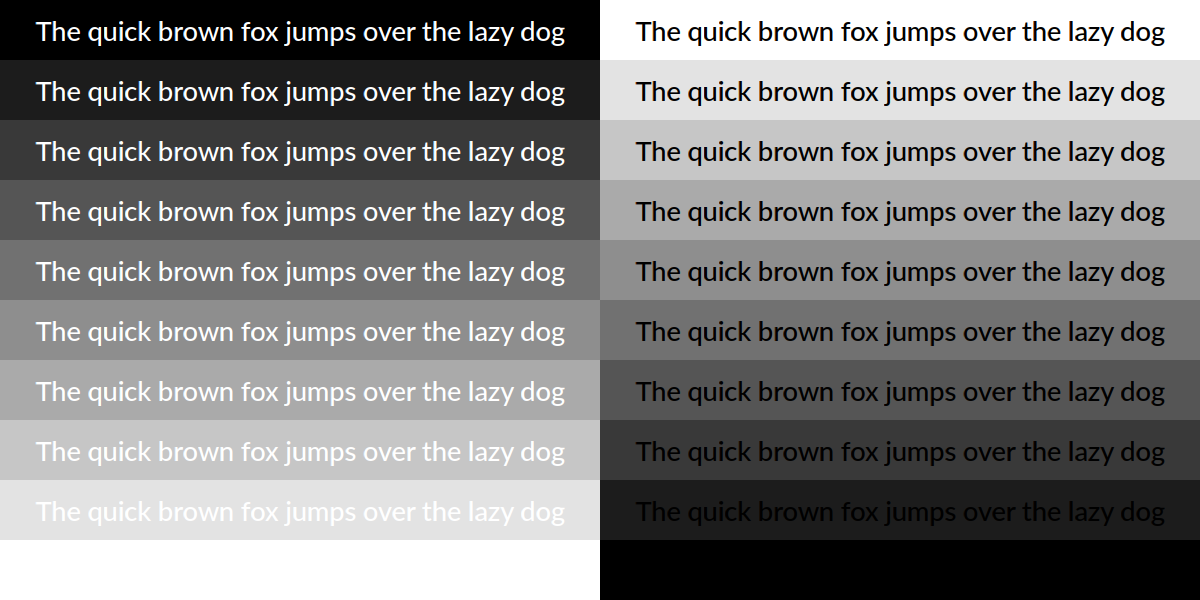
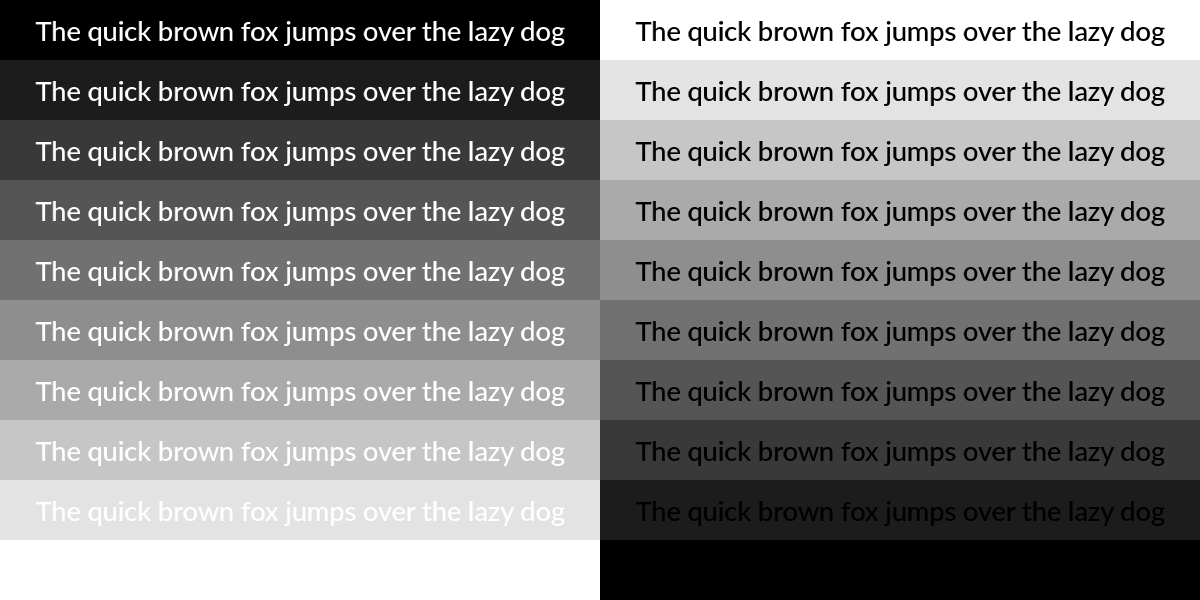
Canvas: subpixel settings

diff --git a/src/graphics/Renderer_test.cpp b/src/graphics/Renderer_test.cpp
@@ -86,31 +86,34 @@ TEST_CASE("Renderer - fonts") {
     REQUIRE(ttf2.has_value());
     fonts->addFont("Lato", FontStyle::Normal, FontWeight::Bold, *ttf2, true, FontFlags::Default);
 
-    renderTest(
-        "rr-fonts", { 1200, 600 },
-        [&](RenderContext& context) {
-            Canvas canvas(context, CanvasFlags::Sdf);
+    for (bool subpixel : { false, true }) {
+        renderTest(
+            "rr-fonts{}"_fmt(subpixel ? "-subpixel" : ""), { 1200, 600 },
+            [&](RenderContext& context) {
+                Canvas canvas(context, CanvasFlags::Sdf);
+                canvas.setSubpixelTextRendering(subpixel);
 
-            Rectangle rect;
-            ColorF c;
-            canvas.setFont(Font{ "Lato", 27.f });
-            for (int i = 0; i < 10; ++i) {
-                c    = ColorOf<float, ColorGamma::sRGB>(i / 9.f);
-                rect = Rectangle{ 0, i * 60, 600, (i + 1) * 60 };
-                canvas.setFillColor(c);
-                canvas.fillRect(rect);
-                canvas.setFillColor(Palette::white);
-                canvas.fillText("The quick brown fox jumps over the lazy dog", rect, PointF(0.5f, 0.5f));
-                c    = ColorOf<float, ColorGamma::sRGB>(1.f - i / 9.f);
-                rect = Rectangle{ 600, i * 60, 1200, (i + 1) * 60 };
-                canvas.setFillColor(c);
-                canvas.fillRect(rect);
-                canvas.setFillColor(Palette::black);
-                canvas.fillText("The quick brown fox jumps over the lazy dog", rect, PointF(0.5f, 0.5f));
-            }
-            CHECK(canvas.rasterizedPaths() == 0);
-        },
-        ColorF{ 1.f, 1.f });
+                Rectangle rect;
+                ColorF c;
+                canvas.setFont(Font{ "Lato", 27.f });
+                for (int i = 0; i < 10; ++i) {
+                    c    = ColorOf<float, ColorGamma::sRGB>(i / 9.f);
+                    rect = Rectangle{ 0, i * 60, 600, (i + 1) * 60 };
+                    canvas.setFillColor(c);
+                    canvas.fillRect(rect);
+                    canvas.setFillColor(Palette::white);
+                    canvas.fillText("The quick brown fox jumps over the lazy dog", rect, PointF(0.5f, 0.5f));
+                    c    = ColorOf<float, ColorGamma::sRGB>(1.f - i / 9.f);
+                    rect = Rectangle{ 600, i * 60, 1200, (i + 1) * 60 };
+                    canvas.setFillColor(c);
+                    canvas.fillRect(rect);
+                    canvas.setFillColor(Palette::black);
+                    canvas.fillText("The quick brown fox jumps over the lazy dog", rect, PointF(0.5f, 0.5f));
+                }
+                CHECK(canvas.rasterizedPaths() == 0);
+            },
+            ColorF{ 1.f, 1.f });
+    }
 }
 
 TEST_CASE("Html text") {

diff --git a/src/graphics/Canvas.cpp b/src/graphics/Canvas.cpp
@@ -96,6 +96,7 @@ void Canvas::drawRasterizedPath(const RasterizedPath& path, const Internal::Pain
                                 Quad3 scissors) {
     ++m_rasterizedPaths;
     RenderStateEx renderState(ShaderType::Mask, 1, nullptr);
+    renderState.subpixelMode = SubpixelMode::Off;
     applier(&renderState, paint);
     renderState.scissorQuad = scissors;
     SdfCanvas::prepareStateInplace(renderState);
@@ -226,6 +227,8 @@ const Canvas::State Canvas::defaultState{
     StrokeParams{},         /* dashArray */
     1.f,                    /* opacity */
     FillParams{},           /* fillRule */
+    Font{},                 /* font*/
+    true,                   /* subpixelText */
 };
 
 Canvas::Canvas(RenderContext& context, CanvasFlags flags)
@@ -425,6 +428,14 @@ void Canvas::setFont(const Font& font) {
     m_state.font = font;
 }
 
+bool Canvas::getSubpixelTextRendering() const {
+    return m_state.subpixelText;
+}
+
+void Canvas::setSubpixelTextRendering(bool value) {
+    m_state.subpixelText = value;
+}
+
 void Canvas::reset() {
     m_state = defaultState;
 }
@@ -504,9 +515,12 @@ void Canvas::fillText(PointF position, PointF alignment, const PreparedText& tex
     }
     sdf(this).drawText(
         position, text,
-        std::tuple{ scissors = m_state.clipRect,
-                    Internal::PaintAndTransform{ m_state.fillPaint, m_state.transform, m_state.opacity },
-                    coordMatrix = m_state.transform });
+        std::tuple{
+            scissors = m_state.clipRect,
+            Internal::PaintAndTransform{ m_state.fillPaint, m_state.transform, m_state.opacity },
+            coordMatrix  = m_state.transform,
+            subpixelMode = m_state.subpixelText ? SubpixelMode::RGB : SubpixelMode::Off,
+        });
 }
 
 void Canvas::fillText(TextWithOptions text, PointF position, PointF alignment) {

diff --git a/src/graphics/VisualTests.hpp b/src/graphics/VisualTests.hpp
@@ -109,11 +109,13 @@ static void visualTestMono(const std::string& referenceImageName, Size size, Fn&
 
 inline ColorF defaultBackColor  = Palette::transparent;
 inline float defaultMaximumDiff = 0.05f;
+inline bool defaultSubPixelText = true;
 
 template <bool profile = false, bool passRenderTarget = false, typename Fn>
 static void renderTest(const std::string& referenceImageName, Size size, Fn&& fn,
                        ColorF backColor = defaultBackColor, float maximumDiff = defaultMaximumDiff,
-                       std::initializer_list<RendererBackend> backends = rendererBackends) {
+                       std::initializer_list<RendererBackend> backends = rendererBackends,
+                       bool subPixelText                               = defaultSubPixelText) {
 
     for (RendererBackend bk : backends) {
         INFO(fmt::to_string(bk));
@@ -132,7 +134,8 @@ static void renderTest(const std::string& referenceImageName, Size size, Fn&& fn
         REQUIRE(target->size() == size);
 
         Rc<RenderEncoder> encoder = device->createEncoder();
-        encoder->setVisualSettings(VisualSettings{ .blueLightFilter = 0, .gamma = 1, .subPixelText = false });
+        encoder->setVisualSettings(
+            VisualSettings{ .blueLightFilter = 0, .gamma = 1, .subPixelText = subPixelText });
 
         visualTest<PixelFormat::BGRA>(
             referenceImageName, size,

diff --git a/src/graphics/SdfCanvas.cpp b/src/graphics/SdfCanvas.cpp
@@ -274,13 +274,16 @@ void SdfCanvas::drawColorMask(SpriteResources sprites, std::span<const GeometryG
 void SdfCanvas::drawText(SpriteResources sprites, std::span<const GeometryGlyph> glyphs,
                          RenderStateExArgs args) {
     RenderStateEx style(ShaderType::Text, glyphs.size(), args);
-    Simd<float, 4> abcd{ style.coordMatrix.a, style.coordMatrix.b, style.coordMatrix.c, style.coordMatrix.d };
-    if (horizontalAll(eq(abcd, Simd<float, 4>{ 1.f, 0.f, 0.f, 1.f }))) {
-        style.subpixelMode = SubpixelMode::RGB;
-    } else if (horizontalAll(eq(abcd, Simd<float, 4>{ -1.f, -0.f, -0.f, -1.f }))) {
-        style.subpixelMode = SubpixelMode::BGR;
-    } else {
-        style.subpixelMode = SubpixelMode::Off;
+    if (style.subpixelMode != SubpixelMode::Off) {
+        Simd<float, 4> abcd{ style.coordMatrix.a, style.coordMatrix.b, style.coordMatrix.c,
+                             style.coordMatrix.d };
+        if (horizontalAll(eq(abcd, Simd<float, 4>{ 1.f, 0.f, 0.f, 1.f }))) {
+            style.subpixelMode = SubpixelMode::RGB;
+        } else if (horizontalAll(eq(abcd, Simd<float, 4>{ -1.f, -0.f, -0.f, -1.f }))) {
+            style.subpixelMode = SubpixelMode::BGR;
+        } else {
+            style.subpixelMode = SubpixelMode::Off;
+        }
     }
     style.spriteOversampling = fonts->hscale();
     style.sprites            = std::move(sprites);

diff --git a/src/graphics/Offscreen.cpp b/src/graphics/Offscreen.cpp
@@ -25,12 +25,14 @@
 
 namespace Brisk {
 
-OffscreenCanvas::OffscreenCanvas(Size size, float pixelRatio)
-    : m_size(size), m_pixelRatio(pixelRatio) {}
+OffscreenCanvas::OffscreenCanvas(Size size, float pixelRatio, const VisualSettings& settings)
+    : m_size(size), m_pixelRatio(pixelRatio), m_settings(settings) {}
 
-OffscreenCanvas::State::State(Rc<RenderDevice> device, Size size, float pixelRatio) {
-    target              = device->createImageTarget(size);
-    encoder             = device->createEncoder();
+OffscreenCanvas::State::State(Rc<RenderDevice> device, Size size, float pixelRatio,
+                              const VisualSettings& settings) {
+    target  = device->createImageTarget(size);
+    encoder = device->createEncoder();
+    encoder->setVisualSettings(settings);
     Brisk::pixelRatio() = pixelRatio;
     context.reset(new RenderPipeline(encoder, target));
     canvas.reset(new Canvas(*context));
@@ -58,7 +60,7 @@ Canvas& OffscreenCanvas::canvas() {
         if (!renderDevice.has_value()) {
             throwException(ERuntime("Render device is null"));
         }
-        m_state.emplace(renderDevice.value(), m_size, m_pixelRatio);
+        m_state.emplace(renderDevice.value(), m_size, m_pixelRatio, m_settings);
     }
     return *m_state->canvas;
 }

diff --git a/include/brisk/graphics/Offscreen.hpp b/include/brisk/graphics/Offscreen.hpp
@@ -37,7 +37,7 @@ public:
      * @param size The dimensions of the rendering target.
      * @param pixelRatio The ratio of pixels to physical pixels (default is 1.0).
      */
-    OffscreenCanvas(Size size, float pixelRatio = 1.f);
+    OffscreenCanvas(Size size, float pixelRatio = 1.f, const VisualSettings& settings = {});
 
     /**
      * @brief Destructor for the OffscreenCanvas object.
@@ -69,13 +69,14 @@ private:
         std::unique_ptr<RenderPipeline> context; ///< The context for the rendering pipeline.
         std::unique_ptr<Canvas> canvas;          ///< The canvas used for drawing.
 
-        State(Rc<RenderDevice> device, Size size, float pixelRatio);
+        State(Rc<RenderDevice> device, Size size, float pixelRatio, const VisualSettings& settings);
         Rc<Image> render() &&;
     };
 
     Size m_size;
     float m_pixelRatio;
     std::optional<State> m_state;
+    VisualSettings m_settings;
 };
 
 } // namespace Brisk

diff --git a/include/brisk/graphics/Canvas.hpp b/include/brisk/graphics/Canvas.hpp
@@ -582,6 +582,9 @@ public:
      */
     void setFont(const Font& font);
 
+    bool getSubpixelTextRendering() const;
+    void setSubpixelTextRendering(bool value);
+
     /**
      * @brief Fills text at a specified position with alignment.
      *
@@ -758,6 +761,7 @@ public:
         float opacity;             ///< The current opacity value (0.0 to 1.0).
         FillParams fillParams;     ///< The current fill parameters (e.g., fill rule).
         Font font;                 ///< The current font settings.
+        bool subpixelText;
     };
 
     /**

diff --git a/src/graphics/Renderer.cpp b/src/graphics/Renderer.cpp
@@ -126,6 +126,10 @@ void RenderPipeline::command(RenderStateEx&& cmd, std::span<const float> data) {
         flush();
     }
 
+    if (!m_encoder->visualSettings().subPixelText) {
+        cmd.subpixelMode = SubpixelMode::Off;
+    }
+
     if (cmd.gradientHandle) {
         cmd.multigradient = m_resources.gradientAtlas->addEntry(cmd.gradientHandle, m_resources.firstCommand,
                                                                 m_resources.currentCommand);

diff --git a/src/widgets/Widgets_test.cpp b/src/widgets/Widgets_test.cpp
@@ -275,7 +275,7 @@ TEST_CASE("Switch animation") {
 
     constexpr int fps = 30;
 
-    OffscreenCanvas offscreen(size, 2.f);
+    OffscreenCanvas offscreen(size, 2.f, { .subPixelText = false });
     tree.update();
     tree.paint(offscreen.canvas(), Palette::black, true);
     anim.addFrame(offscreen.render(), std::chrono::milliseconds(1000 / fps));

diff --git a/src/graphics/RenderStateArgs.hpp b/src/graphics/RenderStateArgs.hpp
@@ -191,6 +191,7 @@ constexpr inline Argument<Tag::TextureChannel> textureChannel{};
 constexpr inline Argument<Tag::CoordMatrix> coordMatrix{};
 constexpr inline Argument<Tag::SamplerMode> samplerMode{};
 constexpr inline Argument<Tag::Scissors> scissors{};
+constexpr inline Argument<Tag::SubpixelMode> subpixelMode{};
 
 } // namespace Arg
 

diff --git a/include/brisk/graphics/RenderState.hpp b/include/brisk/graphics/RenderState.hpp
@@ -188,7 +188,7 @@ public:
 
     Matrix coordMatrix{ 1.f, 0.f, 0.f, 1.f, 0.f, 0.f }; ///<
     int spriteOversampling    = 1;
-    SubpixelMode subpixelMode = SubpixelMode::Off;
+    SubpixelMode subpixelMode = SubpixelMode::RGB;
 
     PatternCodes pattern{};
     int reserved1         = 0;
